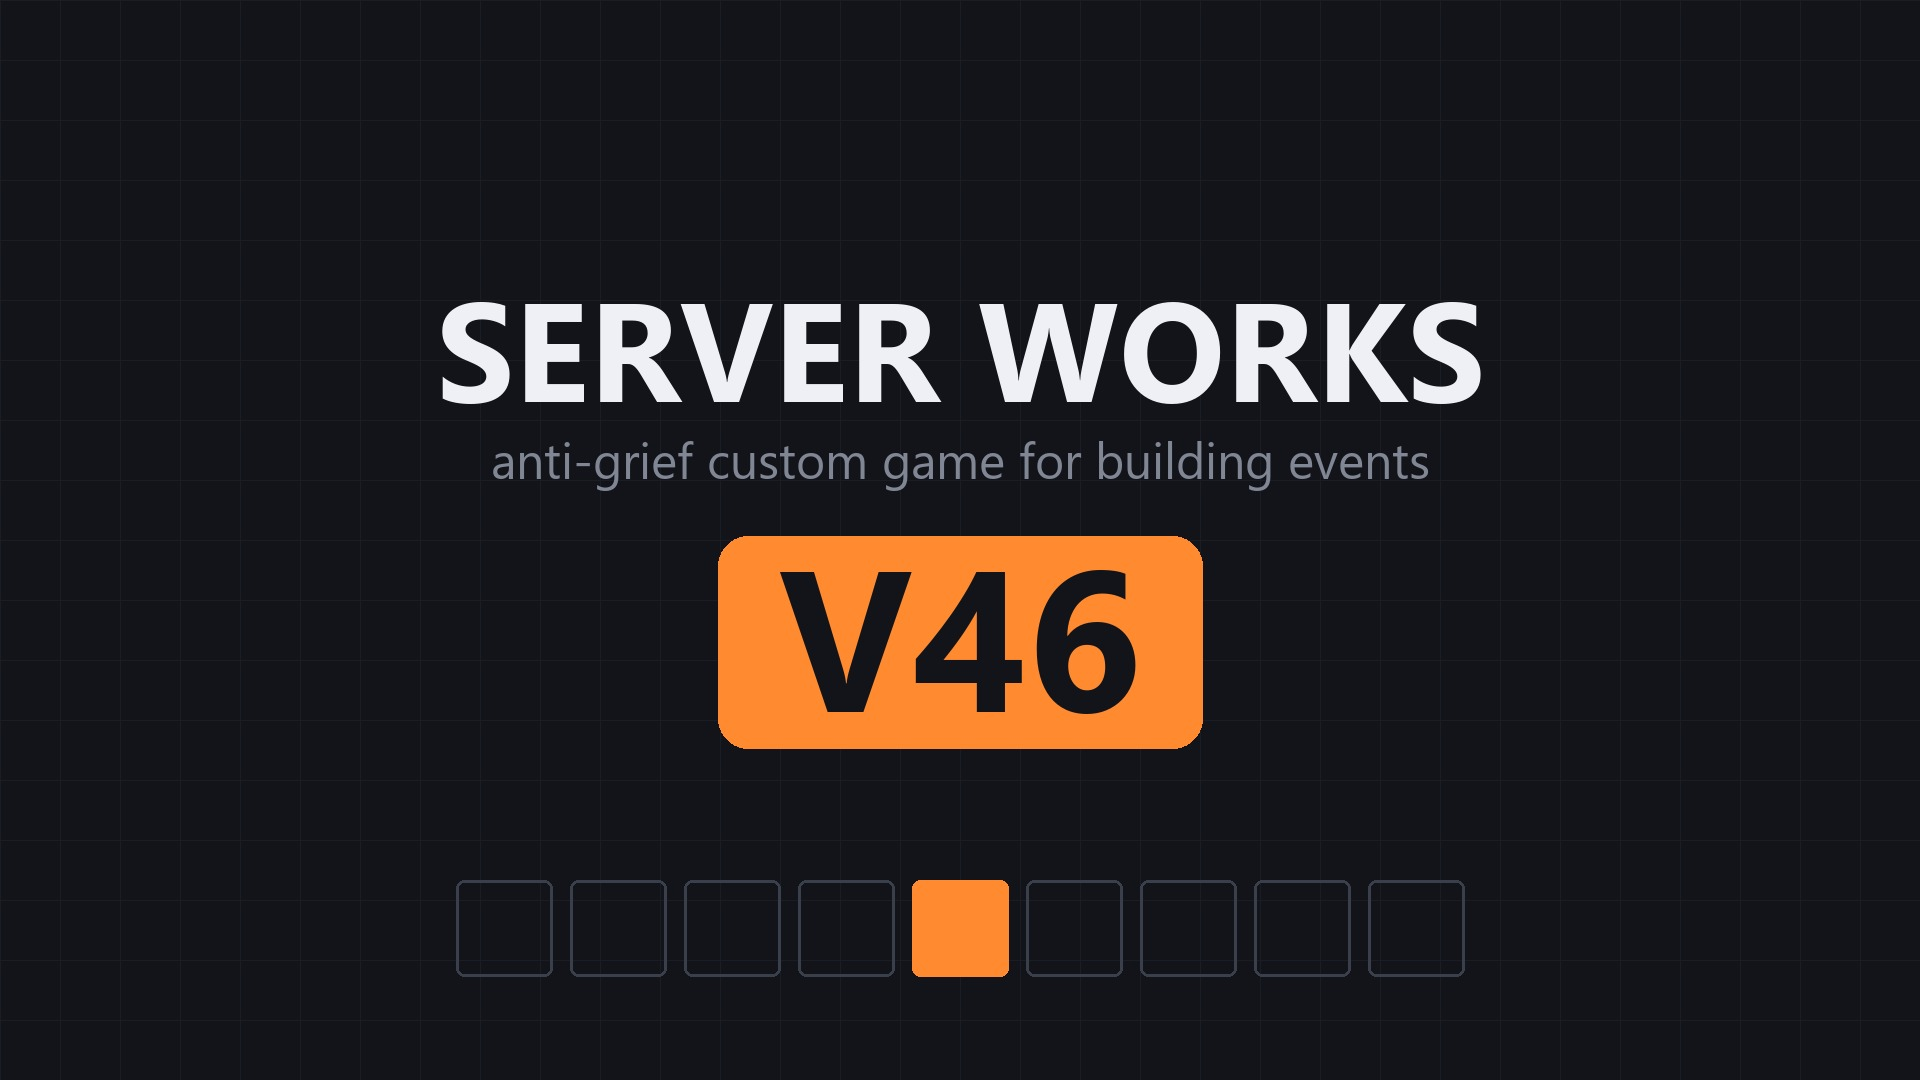
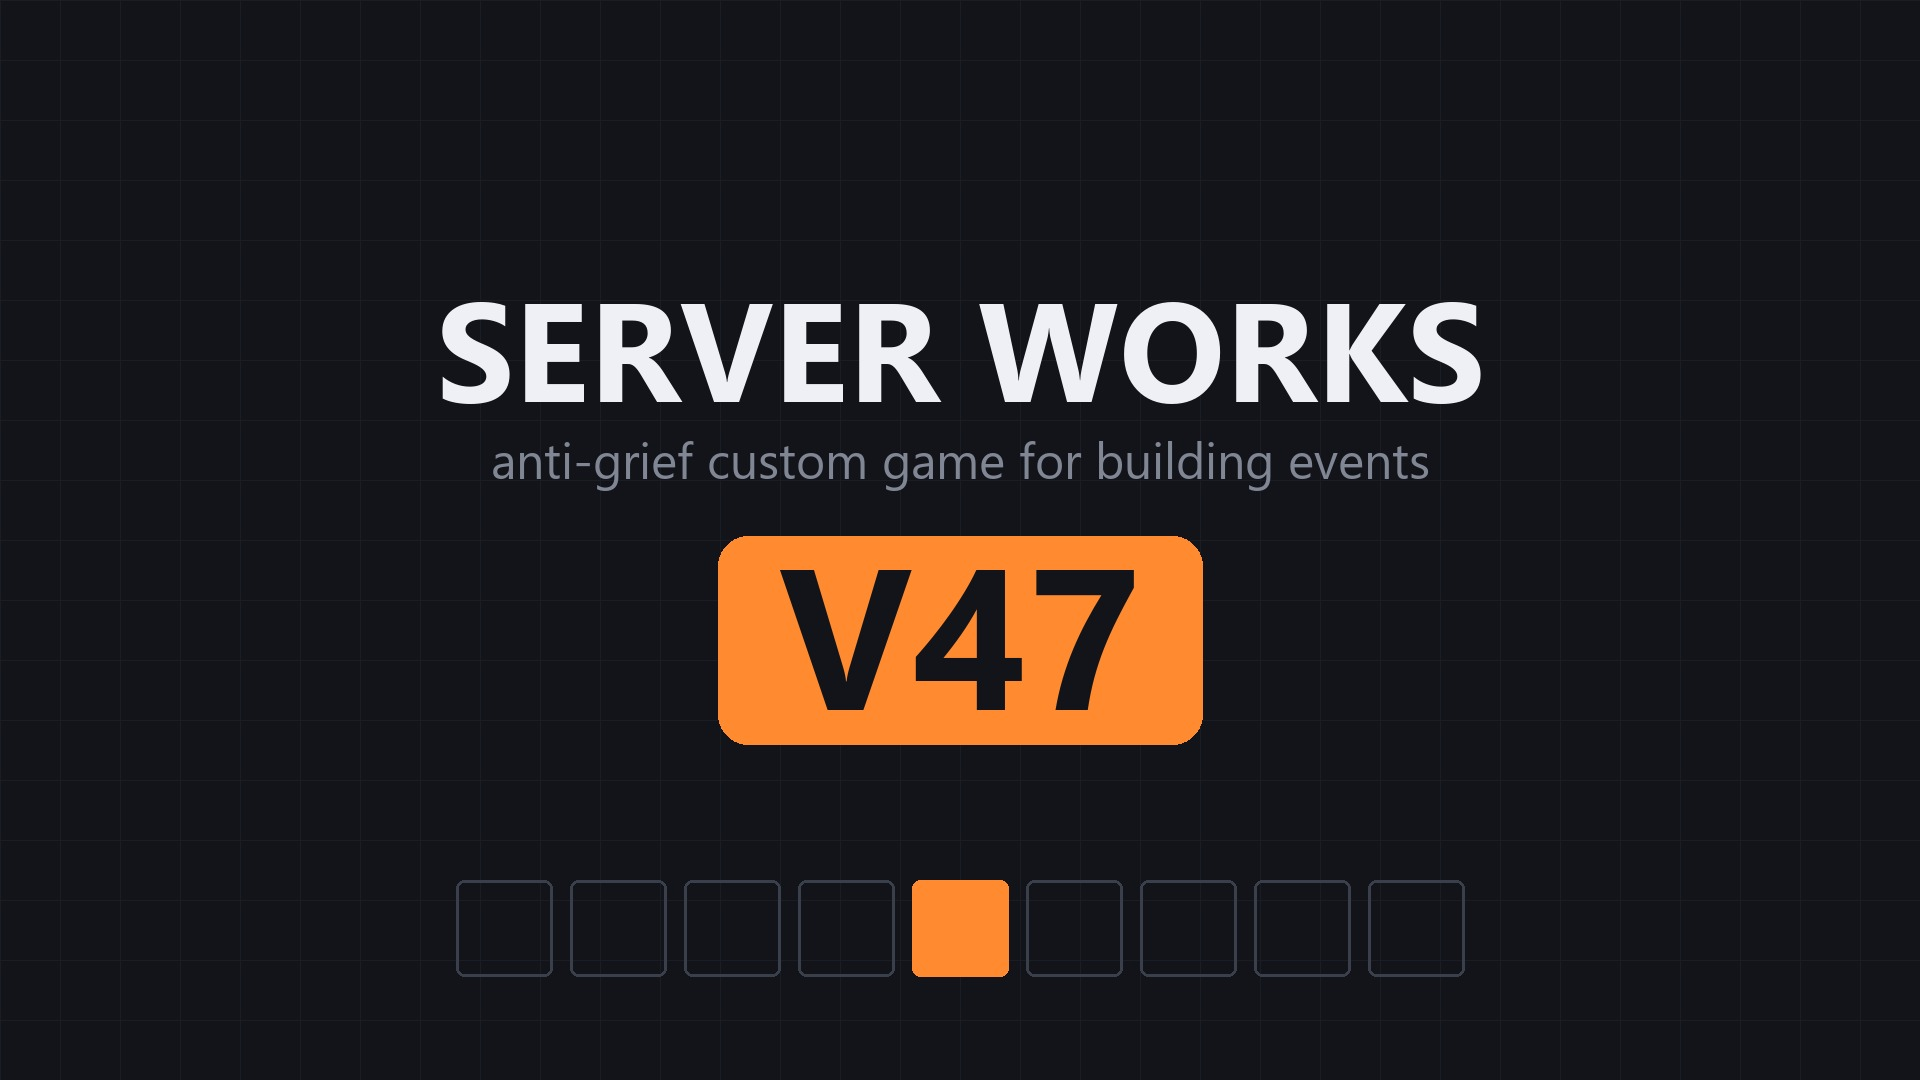
V47: the grief alarm was wrong in both directions; banning reaches the engine
The owner's fact: the remove tool deletes at most 16x16 = 256 shapes in one
action. Both halves of the alarm were wrong because of it.

The threshold was 250 compared cycle to cycle, so a single ordinary delete
tripped it and locked the world. Raise it above 256 and the opposite
appears: the patrol finishes a census every four hundredths of a second on
a 200-body city, so somebody deleting 256 at a time forever never shows a
drop bigger than 256 in any one cycle and never trips it at all.

It now measures a 20-second window against its high-water mark rather than
the previous sample, so pausing between deletes does not hand out a fresh
baseline. Default 400. A migration raises any saved value of 256 or less,
because a default alone reaches nobody who has already played.

BANNING is load-bearing because build permission is per-body and cannot be
aimed at a person, so removing the person IS the enforcement. Every path
that decides somebody is banned now reaches sm.game.banPlayer -- including
the one for somebody banned while offline, which previously only kicked
them, over and over, forever.

Said out loud in the docs: our list is keyed on the DISPLAY NAME, because
Lua is handed no stable player id -- the Player binding list has `id` (a
session slot that shifts) and `name` and nothing else, no Steam id. So the
allow list is the stronger tool: a ban loses to a rename, an allow list
does not.

BACKUPS gained a check that drives a real capture end to end -- the job,
[…]

Changed region(s): [[0.375, 0.5194, 0.625, 0.7028], [0.4688, 0.5806, 0.5, 0.6111], [0.4062, 0.5194, 0.4375, 0.55]]

diff --git a/dev/test_logic.py b/dev/test_logic.py
@@ -97,7 +97,26 @@ sm = {
         getAllPlayers = function() return _players or {} end,
         getHostPlayer = function() return _host end,
     },
-    body = { getAllBodies = function() return {} end },
+    -- Bodies are the engine's, so the stub is deliberately inert -- but the
+    -- snapshot round trip needs to be able to see SOME creations, so a test can
+    -- put them in swTestBodies and they come back here.
+    -- exportToString / importFromString are the engine's own round trip and a
+    -- stub cannot honestly imitate them. These return something SHAPED right so
+    -- the job machinery can be exercised; what they do not prove is the round
+    -- trip itself, which only the game can.
+    creation = {
+        exportToString = function( body, a, b ) return "{\"bodies\":[]}" end,
+        importFromString = function( ... ) return {} end,
+    },
+    body = {
+        getAllBodies = function() return swTestBodies or {} end,
+        getCreationsFromBodies = function( bodies )
+            local out = {}
+            for _, b in ipairs( bodies or {} ) do out[#out + 1] = { b } end
+            return out
+        end,
+        getCreationBodies = function( body ) return { body } end,
+    },
 }
 setmetatable( sm.uuid.new( "x" ), { __tostring = function( t ) return t.s end } )
 -- tostring( uuid ) is used to key the tool tables, so it has to be stable
@@ -277,6 +296,96 @@ def banned(I, player):
     r = I.Sv_IsBanned(player)
     return (r[0] if isinstance(r, tuple) else r) is True
 
+
+def a_backup_captures_everything_and_can_be_put_back():
+    """A snapshot round trip: capture the world, list it, restore it.
+
+    "and also backups. the whole save backups. we need to make sure they work
+    too." They are the other half of the anti-grief -- if damage cannot be
+    prevented, it has to be reversible.
+
+    This exercises the real Snapshots object: the capture job, the index, the
+    file it writes, and the restore reading it back. What it cannot prove is
+    sm.creation.exportToString / importFromString, which are the engine's.
+    """
+    # Protection.lua for isGhostBody -- Snapshots leans on it to keep a
+    # blueprint somebody is holding on a lift out of the saved world.
+    lua = fresh("Layout.lua", "Settings.lua", "Protection.lua", "Snapshots.lua")
+    S = lua.globals().Snapshots
+    snaps = lua.eval("Snapshots()")
+    S.sv_onCreate(snaps)
+
+    # three creations, two of them on plots
+    world = lua.table_from({})
+    # `function t[i]:m()` is not Lua -- the name after `function` may not be an
+    # index expression. Assign the field instead.
+    lua.execute("""
+        swTestBodies = {}
+        madeBodies = swTestBodies
+        for i = 1, 3 do
+            madeBodies[i] = { id = i }
+            madeBodies[i].getShapeCount = function( self ) return 10 end
+        end
+        zoneOfBody = function( body ) return body.id <= 2 and body.id or nil end
+    """)
+    zone_of = lua.globals().zoneOfBody
+
+    stamped = S.Name("manual")
+    assert stamped and "manual-" in str(stamped), (
+        f"a snapshot name is not stamped with a date: {stamped!r}")
+
+    ok, detail = S.sv_beginCapture(snaps, "unittest", world, zone_of)
+    assert ok, f"the capture would not start: {detail}"
+
+    # drive the job to completion the way the world tick does
+    for _ in range(2000):
+        done = S.sv_onFixedUpdate(snaps)
+        if done:
+            break
+    assert snaps["job"] is None, "the capture job never finished"
+
+    names = S.sv_names(snaps)
+    listed = [str(n) for n in names.values()]
+    assert any("unittest" in n for n in listed), (
+        f"the snapshot is not in the list afterwards: {listed}")
+
+
+def a_ban_reaches_the_engine_not_just_our_list():
+    """Every ban path calls sm.game.banPlayer, not just kickPlayer.
+
+    Banning is now load-bearing: "we need to make sure banning works. cause its
+    the only way." It is the only way because build permission is per-BODY and
+    cannot be aimed at a person -- so removing the person IS the enforcement.
+
+    And our own list is keyed on the DISPLAY NAME, because Lua is handed no
+    stable player id at all. The Player binding list has `id` -- a session slot
+    that shifts -- and `name`, and nothing else. A rename walks straight around
+    a name-keyed ban.
+
+    sm.game.banPlayer is the engine's own ban and is the one part a rename
+    cannot dodge, so every route that decides somebody is banned has to reach
+    it. Ours is the record and the offline check; the engine's is the teeth.
+    """
+    game = io.open(SCRIPTS / "Game.lua", encoding="utf-8").read()
+    assert "sm.game.banPlayer" in game, "nothing ever calls the engine's ban"
+
+    # the queue that enforces a ban at join time must be able to ban, not only kick
+    flush = game[game.index("function Game.sv_flushKicks"):]
+    flush = flush[:flush.index(chr(10) + "end")]
+    assert "sm.game.banPlayer" in flush and "sm.game.kickPlayer" in flush, (
+        "sv_flushKicks can only kick -- somebody banned while offline would be "
+        "removed by us on every join instead of by the engine once")
+
+    # every queue insert says which it is
+    import re
+    inserts = re.findall(r"insert\( self\.sv\.kickQueue, ([^)]*)\)", game)
+    assert inserts, "the kick queue is never filled"
+    for site in inserts:
+        assert "ban =" in site, (
+            f"a kick-queue entry does not say whether it is a ban: {site.strip()!r}")
+
+    # and the host can never be removed by our own code
+    assert "getHostPlayer()" in game, "nothing guards the host"
 
 def bans_survive_a_restart():
     lua = fresh("Identity.lua")
@@ -2266,6 +2375,10 @@ def main():
     check("tools: the lift is never treated as a hazard", the_lift_is_never_a_hazard)
 
     check("identity: bans survive a restart", bans_survive_a_restart)
+    check("backups: a capture completes and appears in the list",
+          a_backup_captures_everything_and_can_be_put_back)
+    check("identity: a ban reaches the engine, not just our list",
+          a_ban_reaches_the_engine_not_just_our_list)
     check("identity: the same player keeps one permanent id", a_rename_keeps_the_permanent_id)
     check("identity: unban lifts the ban", unban_actually_unbans)
 

diff --git a/docs/ANTI-GRIEF.md b/docs/ANTI-GRIEF.md
@@ -92,8 +92,10 @@ if self.cursor > n then          -- a full cycle finished
 end
 ```
 
-Every tick, `World.sv_checkGriefAlarm` compares this cycle's census with the
-last. If the count has fallen by `alarmdrop` (default **250** blocks) it:
+Every tick, `World.sv_checkGriefAlarm` compares the current census against the
+**high-water mark of the last 20 seconds** (see the next section for why a window
+and not the previous sample). If the count has fallen by `alarmdrop`
+(default **400** blocks) it:
 
 1. writes `GRIEF ALARM: N shapes lost` to the log,
 2. announces `*** N blocks just disappeared ***` to everyone,
@@ -115,6 +117,23 @@ one automatically, and `/restore` puts a world or a single plot back.
 
 ---
 
+## The remove tool deletes at most 16x16 at a time
+
+**The owner's fact, and it sets the threshold.** One action of the remove tool
+takes at most **256** shapes. Everything about the alarm follows from that:
+
+- A threshold **at or below 256** fires on a single ordinary delete. The old
+  default was 250, so one legitimate sweep locked the world.
+- A threshold **above 256, compared cycle to cycle**, never fires at all. The
+  patrol does 128 bodies per tick at 40 Hz, so a 200-body city finishes a census
+  every four hundredths of a second — somebody deleting 256 at a time, over and
+  over, never shows a drop bigger than 256 in any single cycle.
+
+So the alarm measures a **20-second window** against its **high-water mark**,
+not the previous sample: a griefer who pauses between deletes does not get a
+fresh baseline for free. Default **400** — one big sweep is quiet, two inside the
+window are not.
+
 ## What the alarm cannot do — say this out loud
 
 - **It fires after the fact.** Up to a full patrol cycle late. Blocks are already
@@ -126,11 +145,11 @@ one automatically, and `/restore` puts a world or a single plot back.
   around our own bulk work — purges, restores, snapshots and city rebuilds all
   suppress it, because an alarm that cries wolf is one nobody believes at the
   moment it matters.
-- **It is a whole-world total.** Somebody removing 249 blocks at a time, waiting
-  for the census to settle, and doing it again is invisible to it. Slow, dull,
-  and possible.
+- **It is a whole-world total.** Somebody removing less than the threshold per
+  window, waiting it out, and doing it again is invisible. Slow, dull, possible.
 - **A low `alarmdrop` costs false alarms**, a high one misses small damage. The
-  presets set it: `build` 250, `show` 100, `lockdown` 50, `sandbox` off.
+  presets set it: `build` 400, `show` 300, `lockdown` 260, `sandbox` off. None
+  of them go at or below 256, because that is one ordinary delete.
 
 ---
 
@@ -142,6 +161,25 @@ one automatically, and `/restore` puts a world or a single plot back.
 | **Not prevented, by design** | damage done on your own plot, or a teammate's, while the event is running |
 | **Detected and contained** | mass deletion anywhere — the alarm locks the world and calls it out |
 | **Reversible** | everything, via snapshots and `/restore`, per plot or whole world |
+
+## Which is why banning is the real enforcement
+
+Build permission is per-BODY and cannot be aimed at a person, so **the only way
+to stop someone specific is to remove them.** That makes `/ban` load-bearing
+rather than a convenience. Its honest strength:
+
+- **`sm.game.banPlayer` is the engine's own ban** and is what actually keeps
+  somebody out. Every path that decides a person is banned reaches it now,
+  including the one that fires when somebody banned while offline comes back.
+- **Our own list is keyed on the DISPLAY NAME**, because Lua is handed no stable
+  player id at all. The `Player` binding list has `id` — a session slot that
+  shifts — and `name`, and nothing else. There is no Steam id to key on. So the
+  list records aliases and catches renames it has *seen*; a brand new name is a
+  brand new identity.
+- **The allow list is therefore the stronger tool.** A ban names who must stay
+  out and loses to a rename. An allow list names everyone who may come in, and a
+  rename just produces another name that is not on it. For a public stream
+  event, `/set allowlist on` is the setting that actually holds.
 
 Griefing is possible because building is possible. The system is not a wall; it
 is a fence with a burglar alarm and a rewind button, and each of those three

diff --git a/docs/CHANGELOG.md b/docs/CHANGELOG.md
@@ -10,6 +10,63 @@ was most of them.
 
 ---
 
+## V47 — the alarm was wrong in both directions, and banning is load-bearing
+
+### 16x16 is the number everything hangs off
+
+The owner's fact: **the remove tool deletes at most 16x16 = 256 shapes in one
+action.** Both halves of the grief alarm were wrong because of it.
+
+- The threshold was **250, compared cycle to cycle** — so a *single ordinary
+  delete* tripped the alarm and locked the world.
+- Raise it above 256 and the opposite appears: the patrol finishes a census every
+  four hundredths of a second on a 200-body city, so somebody deleting 256 at a
+  time, forever, never shows a drop bigger than 256 in any one cycle and **never
+  trips it at all**.
+
+The alarm now measures a **20-second window** against its **high-water mark**
+rather than the previous sample, so pausing between deletes does not hand out a
+fresh baseline. Default **400**: one big sweep is quiet, two inside the window are
+not. A migration raises any saved value of 256 or less, because a default alone
+reaches nobody who has already played.
+
+### Banning
+
+*"we need to make sure banning works. cause its the only way."*
+
+It is the only way, and for a reason worth stating: build permission is per-BODY
+and cannot be aimed at a person, so removing the person **is** the enforcement.
+
+Every path that decides somebody is banned now reaches **`sm.game.banPlayer`** —
+including the one that fires when somebody banned while offline comes back, which
+previously only kicked them, over and over, forever.
+
+And what has to be said out loud: **our list is keyed on the display name.** Lua
+is handed no stable player id — the `Player` binding list has `id` (a session slot
+that shifts) and `name`, and nothing else. No Steam id. So the list catches
+renames it has *seen*, and a brand new name is a brand new identity. **The allow
+list is the stronger tool**, and the docs now say so: a ban loses to a rename, an
+allow list does not.
+
+### Backups
+
+*"and also backups. the whole save backups. we need to make sure they work too."*
+
+There is now a check that drives a real capture end to end — the job, the index,
+the file it writes, the list afterwards. It needed the stub to grow
+`getCreationsFromBodies` and an `sm.creation` shim, which is itself the honest
+limit: **`exportToString` / `importFromString` are the engine's, and nothing
+outside the game can prove them.** Everything around them is proved now.
+
+### Also
+
+The vanilla right-click delete preview not showing red was almost certainly the
+V46 body-location bug — every plot was resolving to `sweep`, which is
+`buildable = false, erasable = true`. Worth re-testing now that bodies locate
+properly.
+
+---
+
 ## V46 — every plot in the city was being located somewhere it was not
 
 *"I cant place blocks on the concrete but I can delete it. I can delete others
